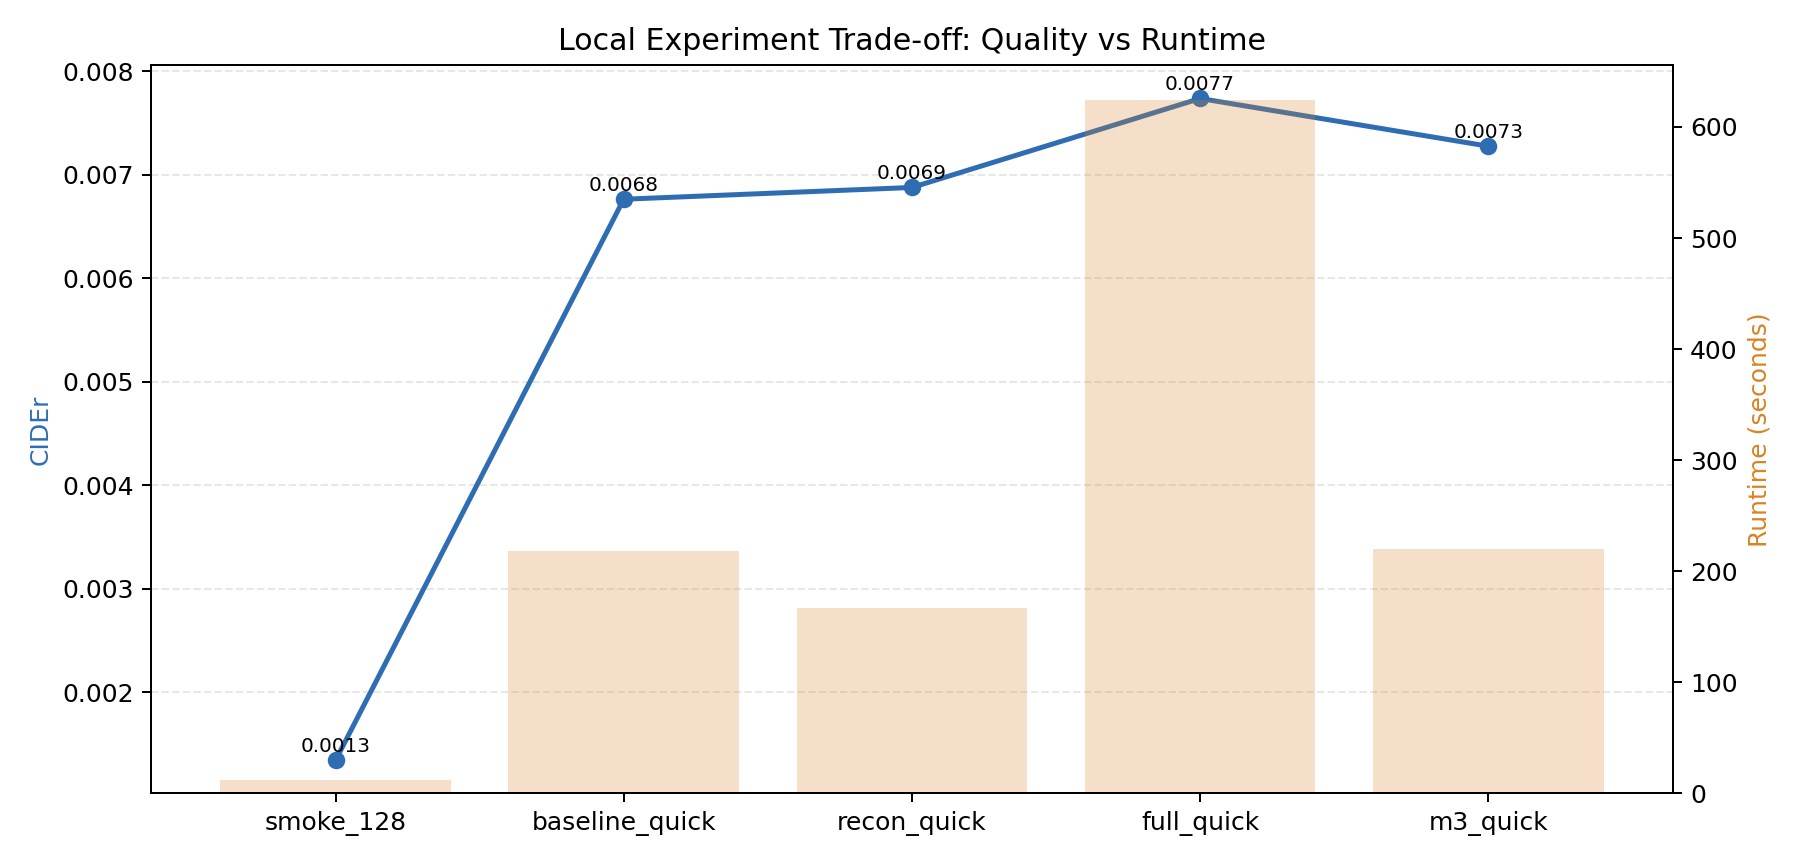
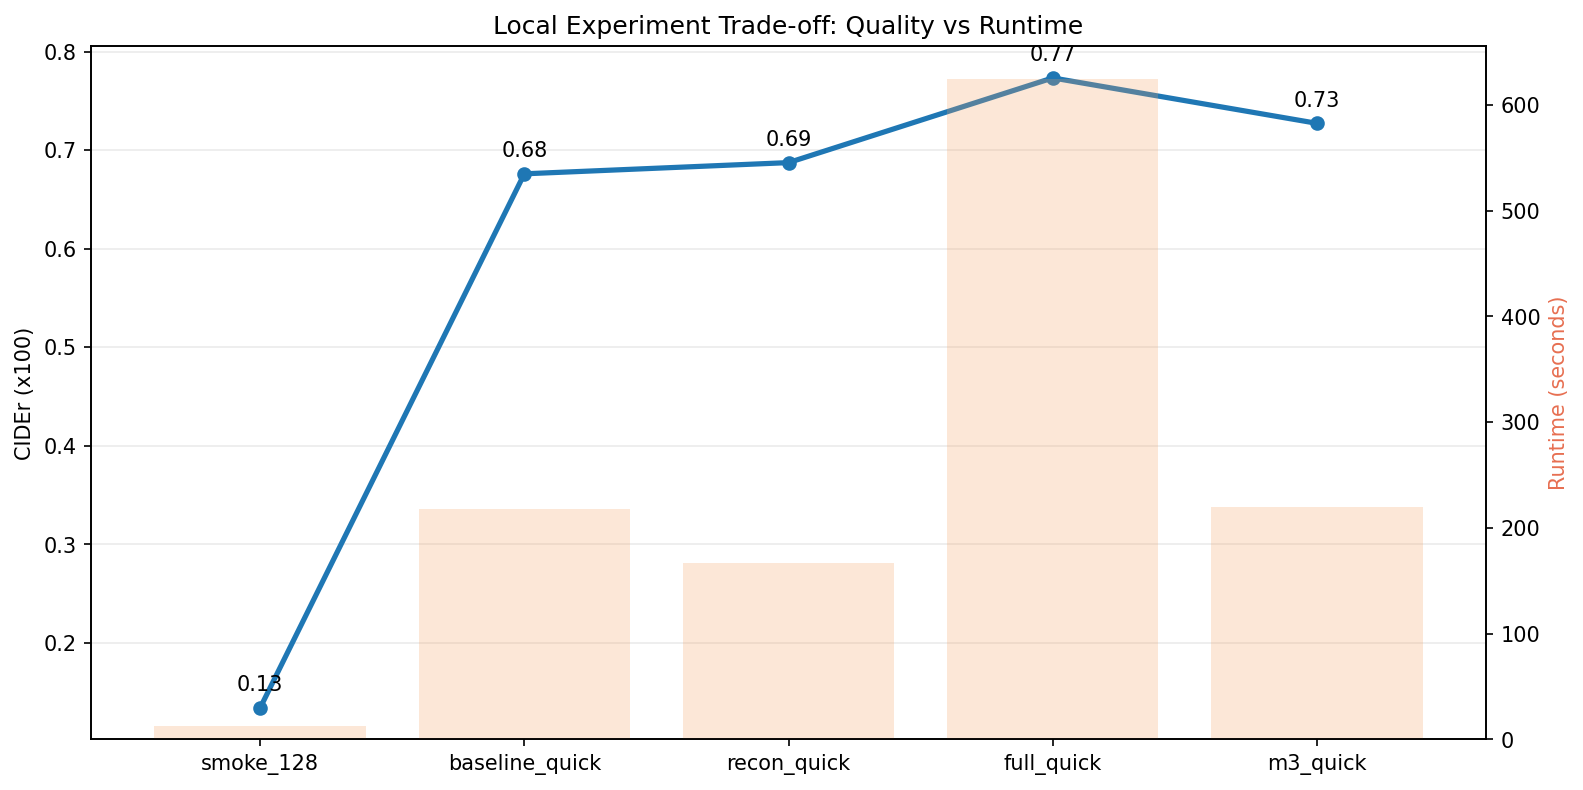
chore: standardize x100 metrics and figures

diff --git a/scripts/make_figures.py b/scripts/make_figures.py
@@ -1,0 +1,214 @@
+from __future__ import annotations
+
+import argparse
+import csv
+import json
+import random
+import textwrap
+from pathlib import Path
+from typing import Dict, List, Tuple
+
+
+def _load_json(path: Path):
+    with path.open("r", encoding="utf-8") as f:
+        return json.load(f)
+
+
+def _try_import_matplotlib():
+    try:
+        import matplotlib
+
+        matplotlib.use("Agg")  # headless-safe
+        import matplotlib.pyplot as plt
+
+        return plt
+    except Exception as exc:  # pragma: no cover
+        raise SystemExit(
+            "Missing optional dependency for figure generation.\n"
+            "Install: pip install matplotlib\n"
+            f"Error: {exc}"
+        )
+
+
+def _load_run_predictions_and_references(
+    run_dir: Path, split: str
+) -> Tuple[Dict[str, str], Dict[str, List[str]]]:
+    pred_path = run_dir / f"predictions_{split}.json"
+    ref_path = run_dir / f"references_{split}.json"
+    if not pred_path.exists():
+        raise FileNotFoundError(f"Missing file: {pred_path}")
+    if not ref_path.exists():
+        raise FileNotFoundError(f"Missing file: {ref_path}")
+    preds = _load_json(pred_path)
+    refs = _load_json(ref_path)
+    return preds, refs
+
+
+def make_qualitative_examples(
+    run_dir: Path,
+    out_path: Path,
+    split: str = "test",
+    num_examples: int = 3,
+    seed: int = 42,
+    wrap_width: int = 88,
+) -> None:
+    plt = _try_import_matplotlib()
+    preds, refs = _load_run_predictions_and_references(run_dir, split)
+
+    keys = sorted(set(preds.keys()) & set(refs.keys()))
+    if not keys:
+        raise RuntimeError("No overlapping keys between predictions and references.")
+
+    rng = random.Random(seed)
+    chosen = rng.sample(keys, k=min(num_examples, len(keys)))
+
+    lines: List[str] = [f"Qualitative Predictions ({run_dir.name} {split} split)", ""]
+    for idx, vid in enumerate(chosen, start=1):
+        ref_list = refs.get(vid) or []
+        ref = ref_list[0] if ref_list else ""
+        pred = preds.get(vid, "")
+
+        ref_wrapped = textwrap.fill(ref, width=wrap_width, subsequent_indent="  ")
+        pred_wrapped = textwrap.fill(pred, width=wrap_width, subsequent_indent="  ")
+
+        lines.extend(
+            [
+                f"{idx}. {vid}",
+                f"Reference: {ref_wrapped}",
+                "",
+                f"Prediction: {pred_wrapped}",
+                "",
+                "",
+            ]
+        )
+
+    text = "\n".join(lines).rstrip() + "\n"
+
+    fig, ax = plt.subplots(figsize=(16, 9))
+    ax.axis("off")
+    ax.text(
+        0.02,
+        0.98,
+        text,
+        va="top",
+        ha="left",
+        fontsize=14,
+        family="DejaVu Sans",
+        transform=ax.transAxes,
+    )
+    out_path.parent.mkdir(parents=True, exist_ok=True)
+    fig.savefig(out_path, dpi=150, bbox_inches="tight")
+    plt.close(fig)
+
+
+def plot_tradeoff(
+    csv_path: Path,
+    out_path: Path,
+    metric_key: str = "cider",
+    split: str = "val",
+) -> None:
+    plt = _try_import_matplotlib()
+
+    run_names: List[str] = []
+    runtimes: List[float] = []
+    metrics: List[float] = []
+
+    with csv_path.open("r", encoding="utf-8", newline="") as f:
+        reader = csv.DictReader(f)
+        for row in reader:
+            if (row.get("split") or "").strip() != split:
+                continue
+            run = (row.get("run_name") or "").strip()
+            if not run:
+                continue
+
+            metric = float(row[metric_key])
+            runtime_raw = (row.get("runtime_seconds") or "").strip()
+            if not runtime_raw or runtime_raw.upper() == "NA":
+                continue
+            runtime = float(runtime_raw)
+
+            run_names.append(run.replace("_stable2", ""))
+            metrics.append(metric)
+            runtimes.append(runtime)
+
+    if not run_names:
+        raise RuntimeError(f"No rows found for split={split} in {csv_path}")
+
+    fig, ax1 = plt.subplots(figsize=(12, 6))
+    ax2 = ax1.twinx()
+
+    ax2.bar(range(len(run_names)), runtimes, alpha=0.25, color="#f4a261")
+    ax1.plot(range(len(run_names)), metrics, marker="o", linewidth=2.5, color="#1f77b4")
+
+    for x, y in enumerate(metrics):
+        ax1.annotate(f"{y:.2f}", (x, y), textcoords="offset points", xytext=(0, 8), ha="center")
+
+    ax1.set_xticks(range(len(run_names)))
+    ax1.set_xticklabels(run_names)
+    ax1.set_ylabel("CIDEr (x100)")
+    ax2.set_ylabel("Runtime (seconds)", color="#e76f51")
+    ax1.set_title("Local Experiment Trade-off: Quality vs Runtime")
+    ax1.grid(True, axis="y", alpha=0.25)
+
+    out_path.parent.mkdir(parents=True, exist_ok=True)
+    fig.savefig(out_path, dpi=150, bbox_inches="tight")
+    plt.close(fig)
+
+
+def build_arg_parser() -> argparse.ArgumentParser:
+    parser = argparse.ArgumentParser(
+        description="Generate README figures from run outputs and CSV logs."
+    )
+    parser.add_argument(
+        "--run-dir",
+        type=str,
+        required=True,
+        help=(
+            "Run directory containing predictions_*.json and references_*.json "
+            "(typically under artifacts/)."
+        ),
+    )
+    parser.add_argument(
+        "--out-dir",
+        type=str,
+        default="assets",
+        help="Output directory for generated PNGs (default: assets).",
+    )
+    parser.add_argument("--split", type=str, default="test", choices=["val", "test"])
+    parser.add_argument("--num-examples", type=int, default=3)
+    parser.add_argument("--seed", type=int, default=42)
+    parser.add_argument(
+        "--benchmark-csv",
+        type=str,
+        default="results/benchmark_main.csv",
+        help="CSV used for trade-off plot (default: results/benchmark_main.csv).",
+    )
+    return parser
+
+
+def main() -> None:
+    args = build_arg_parser().parse_args()
+    run_dir = Path(args.run_dir).expanduser().resolve()
+    out_dir = Path(args.out_dir).expanduser().resolve()
+    csv_path = Path(args.benchmark_csv).expanduser().resolve()
+
+    make_qualitative_examples(
+        run_dir=run_dir,
+        out_path=out_dir / "qualitative_examples.png",
+        split=args.split,
+        num_examples=args.num_examples,
+        seed=args.seed,
+    )
+    plot_tradeoff(
+        csv_path=csv_path,
+        out_path=out_dir / "benchmark_tradeoff.png",
+        metric_key="cider",
+        split="val",
+    )
+    print(f"Wrote: {(out_dir / 'qualitative_examples.png').as_posix()}")
+    print(f"Wrote: {(out_dir / 'benchmark_tradeoff.png').as_posix()}")
+
+
+if __name__ == "__main__":
+    main()

diff --git a/src/videocap/metrics.py b/src/videocap/metrics.py
@@ -93,7 +93,7 @@ def _compute_fallback(gts: Dict[str, List[str]], res: Dict[str, List[str]]) -> D
         "BLEU_3": bleu4,
         "BLEU_4": bleu4,
         "ROUGE_L": rouge_l,
-        "CIDEr": bleu4 * 10.0,
+        "CIDEr": 0.0,
     }
 
 
@@ -112,9 +112,12 @@ def compute_caption_metrics(
         }
 
     try:
-        return _compute_with_pycoco(gts, res)
+        metrics = _compute_with_pycoco(gts, res)
     except Exception:
-        return _compute_fallback(gts, res)
+        metrics = _compute_fallback(gts, res)
+
+    # Paper-style reporting (x100) for consistency with common video captioning tables.
+    return {k: float(v) * 100.0 for k, v in metrics.items()}
 
 
 def save_json(data: Dict, path: str) -> None:

diff --git a/README.md b/README.md
@@ -21,6 +21,18 @@ Compared with image captioning, video captioning must model temporal dynamics, a
    - CI checks for style/tests/CLI smoke,
    - structured docs and references.
 
+## What’s Unique Here (vs SOTA)
+Recent SOTA video captioning systems typically achieve higher headline scores with larger video encoders, retrieval, and
+large-scale pretraining. This repository targets a different (and very practical) point in the design space: a lightweight,
+MPS-friendly baseline you can train, debug, and extend locally.
+
+- **Engineering innovation:** Python 3.12, MPS-first device selection, deterministic splits, CLI-first workflow, and CI.
+- **Method packaging:** learned video prefix tokens for a pretrained LM (`distilgpt2`) plus an explicit reconstruction
+  objective that keeps decoded text representations aligned with fused video features.
+- **Reusable ablation knobs:** prefix length, reconstructor weight, temporal encoder depth, and decoding parameters.
+
+This is a **reproducible baseline**, not a leaderboard claim. Use the SOTA table below for context only.
+
 ## Method Overview
 ![Architecture](assets/architecture.png)
 
@@ -79,20 +91,28 @@ Direct links:
 ### Qualitative Visualization
 ![Qualitative Examples](assets/qualitative_examples.png)
 
+To regenerate this figure on your own runs:
+```bash
+python scripts/make_figures.py --run-dir artifacts/<your-run-dir> --out-dir assets
+```
+Requires `matplotlib` (`pip install matplotlib`).
+
 ### Runtime vs Quality Trade-off
 ![Benchmark Tradeoff](assets/benchmark_tradeoff.png)
 
 ### Benchmark (Local Reproducible Runs)
 
-| Run | Split | BLEU-4 | ROUGE-L | CIDEr | Runtime (s) | Note |
+| Run | Split | BLEU-4 (x100) | ROUGE-L (x100) | CIDEr (x100) | Runtime (s) | Note |
 |---|---|---:|---:|---:|---:|---|
-| smoke_128_stable2 | val | 0.0000 | 0.1319 | 0.0013 | 12.27 | smoke sanity |
-| baseline_quick | val | 0.0300 | 0.2454 | 0.0068 | 218.04 | `lambda_recon=0.0` |
-| recon_quick | val | 0.0310 | 0.2506 | 0.0069 | 167.09 | `lambda_recon=0.2` |
-| full_quick | val | 0.0289 | 0.2662 | 0.0077 | 624.23 | selected by val CIDEr |
-| full_quick | test | 0.0383 | 0.2696 | 0.0068 | - | held-out test |
+| smoke_128_stable2 | val | 0.00 | 13.19 | 0.13 | 12.27 | smoke sanity |
+| baseline_quick | val | 3.00 | 24.54 | 0.68 | 218.04 | `lambda_recon=0.0` |
+| recon_quick | val | 3.10 | 25.06 | 0.69 | 167.09 | `lambda_recon=0.2` |
+| full_quick | val | 2.89 | 26.62 | 0.77 | 624.23 | selected by val CIDEr |
+| full_quick | test | 3.83 | 26.96 | 0.68 | - | held-out test |
 
 Machine-readable file: `results/benchmark_main.csv`.
+
+All metrics in this README/`results/*.csv` are reported as x100 (paper-style).
 
 ### SOTA Comparison (Paper-Reported)
 
@@ -102,7 +122,7 @@ Machine-readable file: `results/benchmark_main.csv`.
 | D-LSG | 2021 | MSR-VTT test | 44.6 | 28.8 | 62.3 | 51.2 | Supervised | [5] |
 | HMN | 2022 | MSR-VTT test | 43.5 | 29.0 | 62.7 | 51.5 | Supervised | [6] |
 | RETTA | 2024 | MSR-VTT test | 14.0 | 19.3 | 42.2 | 24.3 | Zero-shot + TTA | [7] |
-| This repo (`full_quick`) | 2026 | V2C/MSR-VTT-derived test | 0.0383 | N/A | 0.2696 | 0.0068 | Lightweight local reproducible | this work |
+| This repo (`full_quick`) | 2026 | V2C/MSR-VTT-derived test | 3.83 | N/A | 26.96 | 0.68 | Lightweight local reproducible | this work |
 
 Machine-readable file: `results/sota_comparison.csv`.
 
@@ -127,10 +147,16 @@ Machine-readable file: `results/sota_comparison.csv`.
    - non-ours rows are paper-reported values under their own protocols,
    - ours uses a lightweight local setting and different preprocessing scale.
 
+If you observe that enabling reconstruction improves CIDEr/ROUGE-L in your ablations, it typically means the decoder is
+better constrained to stay aligned with the fused video embedding, which can reduce caption drift and generic phrasing.
+Treat `lambda_recon` as a practical knob: increase it when captions become visually inconsistent; decrease it if fluency
+collapses or training becomes unstable.
+
 ### How others can reuse this work
 - Reuse the training/evaluation CLI and configs as a minimal baseline for new video-caption datasets.
 - Reuse the reconstructor loss module as a drop-in regularizer in other encoder-decoder pipelines.
 - Reuse `results/*.csv` and visualization templates for project reporting and ablation tracking.
+  - `python scripts/make_figures.py --run-dir artifacts/<run> --out-dir assets`
 
 ## Fair-Comparison Note
 All non-ours rows in the SOTA table are reported values from cited papers under their own settings; they are **not retrained in this repository**. Metric scales/protocols can differ across codebases and preprocessing pipelines.
